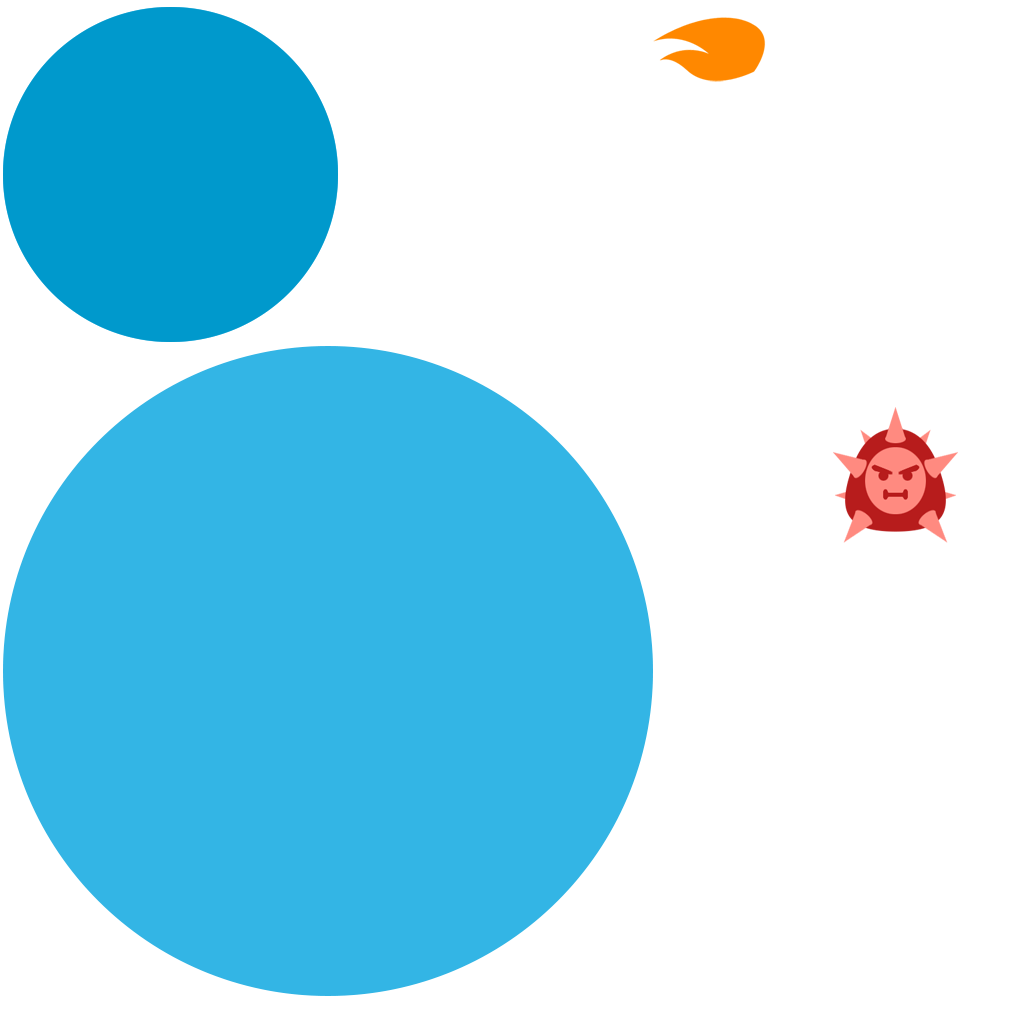
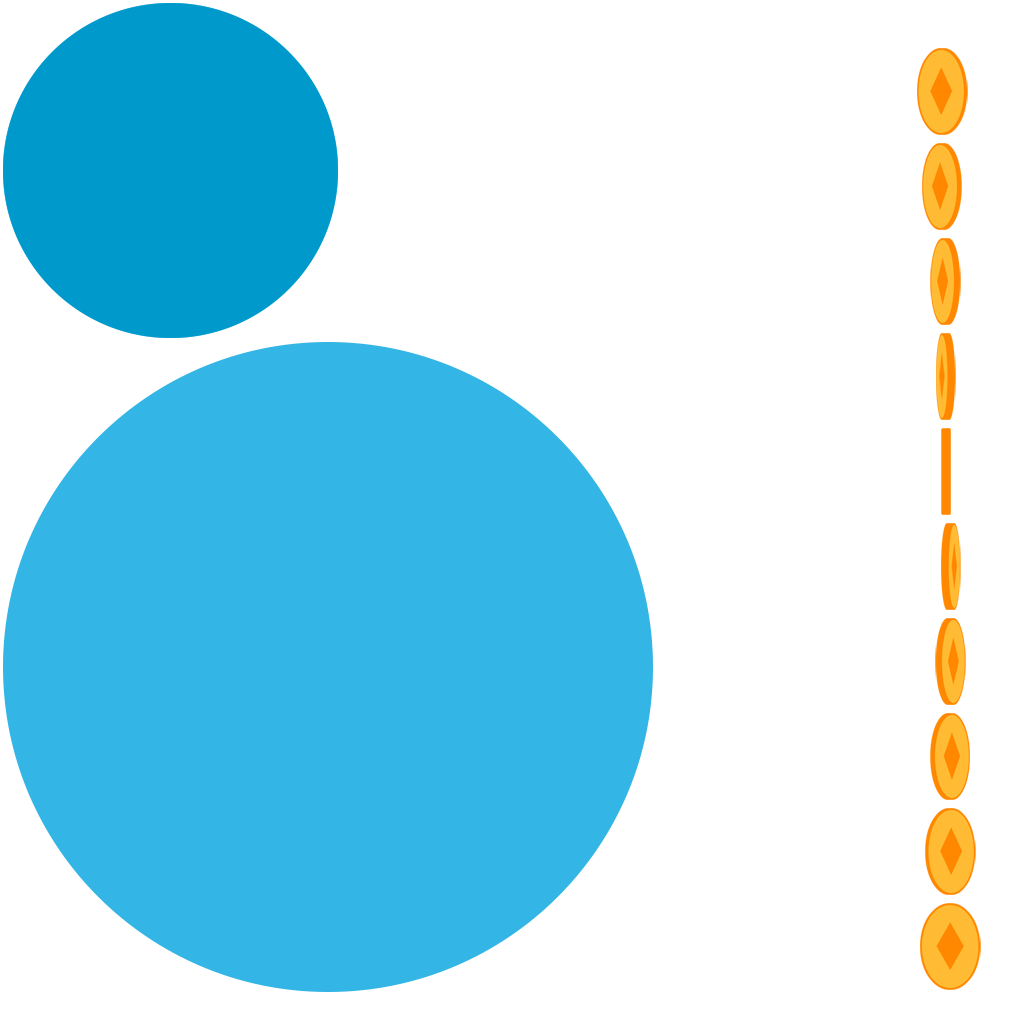
Animations Coins Linear Filtering Money Hoes

diff --git a/core/src/co/bravebunny/circular/entities/objects/Coin.java b/core/src/co/bravebunny/circular/entities/objects/Coin.java
@@ -1,26 +1,27 @@
 package co.bravebunny.circular.entities.objects;
 
+import aurelienribon.tweenengine.BaseTween;
+import aurelienribon.tweenengine.Tween;
+import aurelienribon.tweenengine.TweenCallback;
+import aurelienribon.tweenengine.equations.Back;
+import co.bravebunny.circular.managers.ActorTween;
+import co.bravebunny.circular.managers.Assets;
+import co.bravebunny.circular.managers.Positions;
+import co.bravebunny.circular.screens.GameScreen;
+import co.bravebunny.circular.screens.Play;
+
+import com.badlogic.gdx.graphics.g2d.Animation;
 import com.badlogic.gdx.math.MathUtils;
 import com.badlogic.gdx.scenes.scene2d.ui.Image;
 import com.badlogic.gdx.utils.Timer;
 import com.badlogic.gdx.utils.Timer.Task;
 
-import co.bravebunny.circular.managers.ActorTween;
-import co.bravebunny.circular.managers.Assets;
-import co.bravebunny.circular.managers.Particles;
-import co.bravebunny.circular.managers.Positions;
-import co.bravebunny.circular.screens.GameScreen;
-import co.bravebunny.circular.screens.Play;
-import aurelienribon.tweenengine.BaseTween;
-import aurelienribon.tweenengine.Tween;
-import aurelienribon.tweenengine.TweenCallback;
-import aurelienribon.tweenengine.equations.Back;
-
-public class Enemy extends Solid{
+public class Coin extends Solid {
 	private float h;
 	private float angle = 0;
 	private int type;
-	private Image body;
+	private AnimatedImage animation;
+	private float elapsedTime = 0;
 	
 	private TweenCallback tweenCallback = new TweenCallback()
 	{
@@ -34,15 +35,18 @@ public class Enemy extends Solid{
 	};
 
 	public void init() {
-		body = Assets.getImage("level/enemy");
-		actors.addActor(body);
 		coll_on = false;
 		type = MathUtils.random(1);
 		h = 400 - type*150;
-		coll_radius = 10;
+		coll_radius = 8;
 		
 		actors.setOrigin(actors.getWidth()/2, actors.getHeight()/2);
-		actors.setScale(0);
+		//actors.setScale(0);
+		animation = Assets.getAnimation("level/coin");
+		actors.addActor(animation);
+		Play.layerOverlay.addActor(actors);
+		
+		
 	}
 	
 	public void grow(float bpm) {
@@ -58,7 +62,7 @@ public class Enemy extends Solid{
             }
         }, 60/bpm);
 		
-        //destroy the enemy after some time
+        //destroy the coin after some time
         Timer.schedule(new Task(){
             @Override
             public void run() {
@@ -72,21 +76,13 @@ public class Enemy extends Solid{
 		dispose();
 	}
 	
-	//enemy beat effect
+	//coin beat effect
 	public void beat(){
 		//TODO
 	}
-
-	public void explode() {
-		if (actors.isVisible()) {
-			Particles.create(Positions.getCenterX(actors), Positions.getCenterY(actors), "B71C1CFF");
-			actors.setVisible(false);
-		}
-		destroy();
-	}
 	
 	public void render(float delta) {
-		//place the enemy in the game screen, and rotate it to an angle in front of the ship
+		//place the coin in the game screen, and rotate it to an angle in front of the ship
 		Positions.setPolarPosition(actors, h, angle);
 
 	}
@@ -95,17 +91,14 @@ public class Enemy extends Solid{
 	public void setRotation(float degrees) {
 		super.setRotation(degrees - 90);
 		this.angle = degrees;
-		
 	}
 	
-	public void dispose() {
-		if (actors != null) {
-			actors.remove();
-		}
-		actors = null;
+	public void collect() {
+		
 	}
 	
 	public boolean isDead() {
 		return actors == null;
 	}
+
 }

diff --git a/core/src/co/bravebunny/circular/screens/Play.java b/core/src/co/bravebunny/circular/screens/Play.java
@@ -1,6 +1,7 @@
 package co.bravebunny.circular.screens;
 
 import co.bravebunny.circular.entities.objects.Circle;
+import co.bravebunny.circular.entities.objects.Coin;
 import co.bravebunny.circular.entities.objects.Enemy;
 import co.bravebunny.circular.entities.objects.HUD;
 import co.bravebunny.circular.entities.objects.Score;
@@ -41,6 +42,7 @@ public class Play extends GameScreen implements Screen {
 	public HUD hud;
 	public Score scoreText;
 	public Array<Enemy> enemies = new Array<Enemy>();
+	public Array<Coin> coins = new Array<Coin>();
 	
     public float getBPM() {
     	return levels[selectedLevel].getBpm();
@@ -141,6 +143,18 @@ public class Play extends GameScreen implements Screen {
 		    		}
 	    		}
 	    	}
+	    	
+	    	for (int i = 0; i < coins.size; i++) {
+	    		if (coins.get(i).isDead()) {
+	    			coins.removeIndex(i);
+	    		} else {
+	    			coins.get(i).render(delta);
+	    			if (ship.collidesWith(coins.get(i))) {
+	    				coins.get(i).collect();
+	    				coins.removeIndex(i);
+		    		}
+	    		}
+	    	}
 	        
 	    	time += delta;
 	        if (time >= 60/getBPM()) {
@@ -180,6 +194,14 @@ public class Play extends GameScreen implements Screen {
 		enemy.setRotation(ship.getRotation() + 180);
 		enemy.grow(getBPM());
 		enemies.add(enemy);
+		enemy.setLayer(layerObjects);
+		
+		Coin coin = new Coin();
+		coin.setRotation(ship.getRotation() + 200);
+		//coin.grow(getBPM());
+		coins.add(coin);
+		coin.setLayer(layerObjects);
+		
 		circle.beat(getBPM());
 		scoreText.inc();
 		//enemy.beat();
@@ -224,6 +246,9 @@ public class Play extends GameScreen implements Screen {
 		Particles.dispose();
 		for (Enemy enemy : enemies) {
 			enemy.dispose();
+		}
+		for (Coin coin : coins) {
+			coin.dispose();
 		}
 		ship.dispose();
 		circle.dispose();

diff --git a/core/src/co/bravebunny/circular/managers/Assets.java b/core/src/co/bravebunny/circular/managers/Assets.java
@@ -4,10 +4,15 @@ import com.badlogic.gdx.Gdx;
 import com.badlogic.gdx.assets.AssetManager;
 import com.badlogic.gdx.audio.Music;
 import com.badlogic.gdx.audio.Sound;
+import com.badlogic.gdx.graphics.g2d.Animation;
 import com.badlogic.gdx.graphics.g2d.TextureAtlas;
 import com.badlogic.gdx.graphics.g2d.TextureAtlas.AtlasRegion;
+import com.badlogic.gdx.graphics.g2d.TextureRegion;
 import com.badlogic.gdx.scenes.scene2d.ui.Image;
 import com.badlogic.gdx.scenes.scene2d.ui.Skin;
+import com.badlogic.gdx.utils.Array;
+
+import co.bravebunny.circular.entities.objects.AnimatedImage;
 
 public class Assets {
     public static AssetManager manager = new AssetManager();
@@ -47,6 +52,14 @@ public class Assets {
     public static Image getImage (String file) {
     	AtlasRegion region = skin.getAtlas().findRegion(file);
     	return new Image(region);
+    }
+    
+    public static AnimatedImage getAnimation(String file) {
+    	Array<AtlasRegion> regions = skin.getAtlas().findRegions(file);
+    	return new AnimatedImage(new Animation(0.1f, regions));
+        
+        //all aboard the animation train
+        //choo-choo
     }
     
     //Loads a sound. input string examples:

diff --git a/core/src/co/bravebunny/circular/entities/objects/Solid.java b/core/src/co/bravebunny/circular/entities/objects/Solid.java
@@ -4,14 +4,30 @@ import co.bravebunny.circular.managers.Positions;
 
 public abstract class Solid extends GameObject {
 	
-	public float radius; //radius of the collision circle
-	public boolean coll_on = true; //true if collisions are enabled
+	protected float coll_radius; //radius of the collision circle
+	protected boolean coll_on = true; //true if collisions are enabled
 	
 	public boolean collidesWith(Solid object) {
-		return (Positions.getDistance(actors, object.getX(), object.getY()) < (radius + object.radius)) 
+		return (Positions.getDistance(actors, object.getX(), object.getY()) < (coll_radius + object.coll_radius)) 
 				&&
 				coll_on;
 
+	}
+	
+	public float getCollRadius() {
+		return coll_radius;
+	}
+	
+	public boolean isCollidable() {
+		return coll_on;
+	}
+	
+	public void setCollidable(boolean bool) {
+		coll_on = bool;
+	}
+	
+	public void setCollRadius(float coll_radius) {
+		this.coll_radius = coll_radius;
 	}
 
 

diff --git a/core/src/co/bravebunny/circular/entities/objects/TextBlock.java b/core/src/co/bravebunny/circular/entities/objects/TextBlock.java
@@ -2,6 +2,10 @@ package co.bravebunny.circular.entities.objects;
 
 import aurelienribon.tweenengine.Tween;
 import aurelienribon.tweenengine.equations.Back;
+import aurelienribon.tweenengine.equations.Circ;
+import aurelienribon.tweenengine.equations.Cubic;
+import aurelienribon.tweenengine.equations.Quad;
+import aurelienribon.tweenengine.equations.Quart;
 import co.bravebunny.circular.managers.ActorTween;
 import co.bravebunny.circular.managers.Assets;
 import co.bravebunny.circular.screens.GameScreen;
@@ -28,7 +32,7 @@ public class TextBlock extends GameObject {
 	
 	public void moveTo(float target) {
     	Tween.to(actors, ActorTween.POSITION, 0.5f)
-        .target(target).ease(Back.OUT)
+        .target(target).ease(Quart.OUT)
         .start(GameScreen.getTweenManager());
 	}
 

diff --git a/core/src/co/bravebunny/circular/entities/objects/AnimatedImage.java b/core/src/co/bravebunny/circular/entities/objects/AnimatedImage.java
@@ -1,0 +1,26 @@
+package co.bravebunny.circular.entities.objects;
+
+import com.badlogic.gdx.graphics.g2d.Animation;
+import com.badlogic.gdx.graphics.g2d.TextureRegion;
+import com.badlogic.gdx.scenes.scene2d.ui.Image;
+import com.badlogic.gdx.scenes.scene2d.utils.TextureRegionDrawable;
+
+public class AnimatedImage extends Image
+{
+protected Animation animation = null;
+private float stateTime = 0;
+
+public AnimatedImage(Animation animation) {
+    super(animation.getKeyFrame(0));
+    this.animation = animation;
+}
+
+@Override
+public void act(float delta)
+{
+	TextureRegion keyFrame = animation.getKeyFrame(stateTime+=delta, true);
+    ((TextureRegionDrawable)getDrawable()).setRegion(keyFrame);
+
+    super.act(delta);
+}
+}

diff --git a/core/src/co/bravebunny/circular/screens/Menu.java b/core/src/co/bravebunny/circular/screens/Menu.java
@@ -62,7 +62,6 @@ public class Menu extends GameScreen implements Screen {
     	for (int i = 0; i < levels.length; i++) {
     		levels[i] = new Level();
     		String levelJson = Gdx.files.internal("levels/level" + i + ".json").readString();
-    		System.out.println(levelJson);
     		levels[i] = json.fromJson(Level.class, levelJson);
         	levels[i].setLayer(layerLevels);
         	levels[i].setPolarPosition(1000*i - 1000*selectedLevel, 0);

diff --git a/core/src/co/bravebunny/circular/entities/objects/Ship.java b/core/src/co/bravebunny/circular/entities/objects/Ship.java
@@ -80,7 +80,7 @@ public class Ship extends Solid {
 	}
 	
 	public boolean collidesWith(Solid object) {
-		if (Positions.getDistance(actors, object.getX(), object.getY()) < (colRadius + object.radius)) {
+		if (Positions.getDistance(actors, object.getX(), object.getY()) < (colRadius + object.coll_radius)) {
 			return object.actors.isVisible();
 		}
 		return false;
